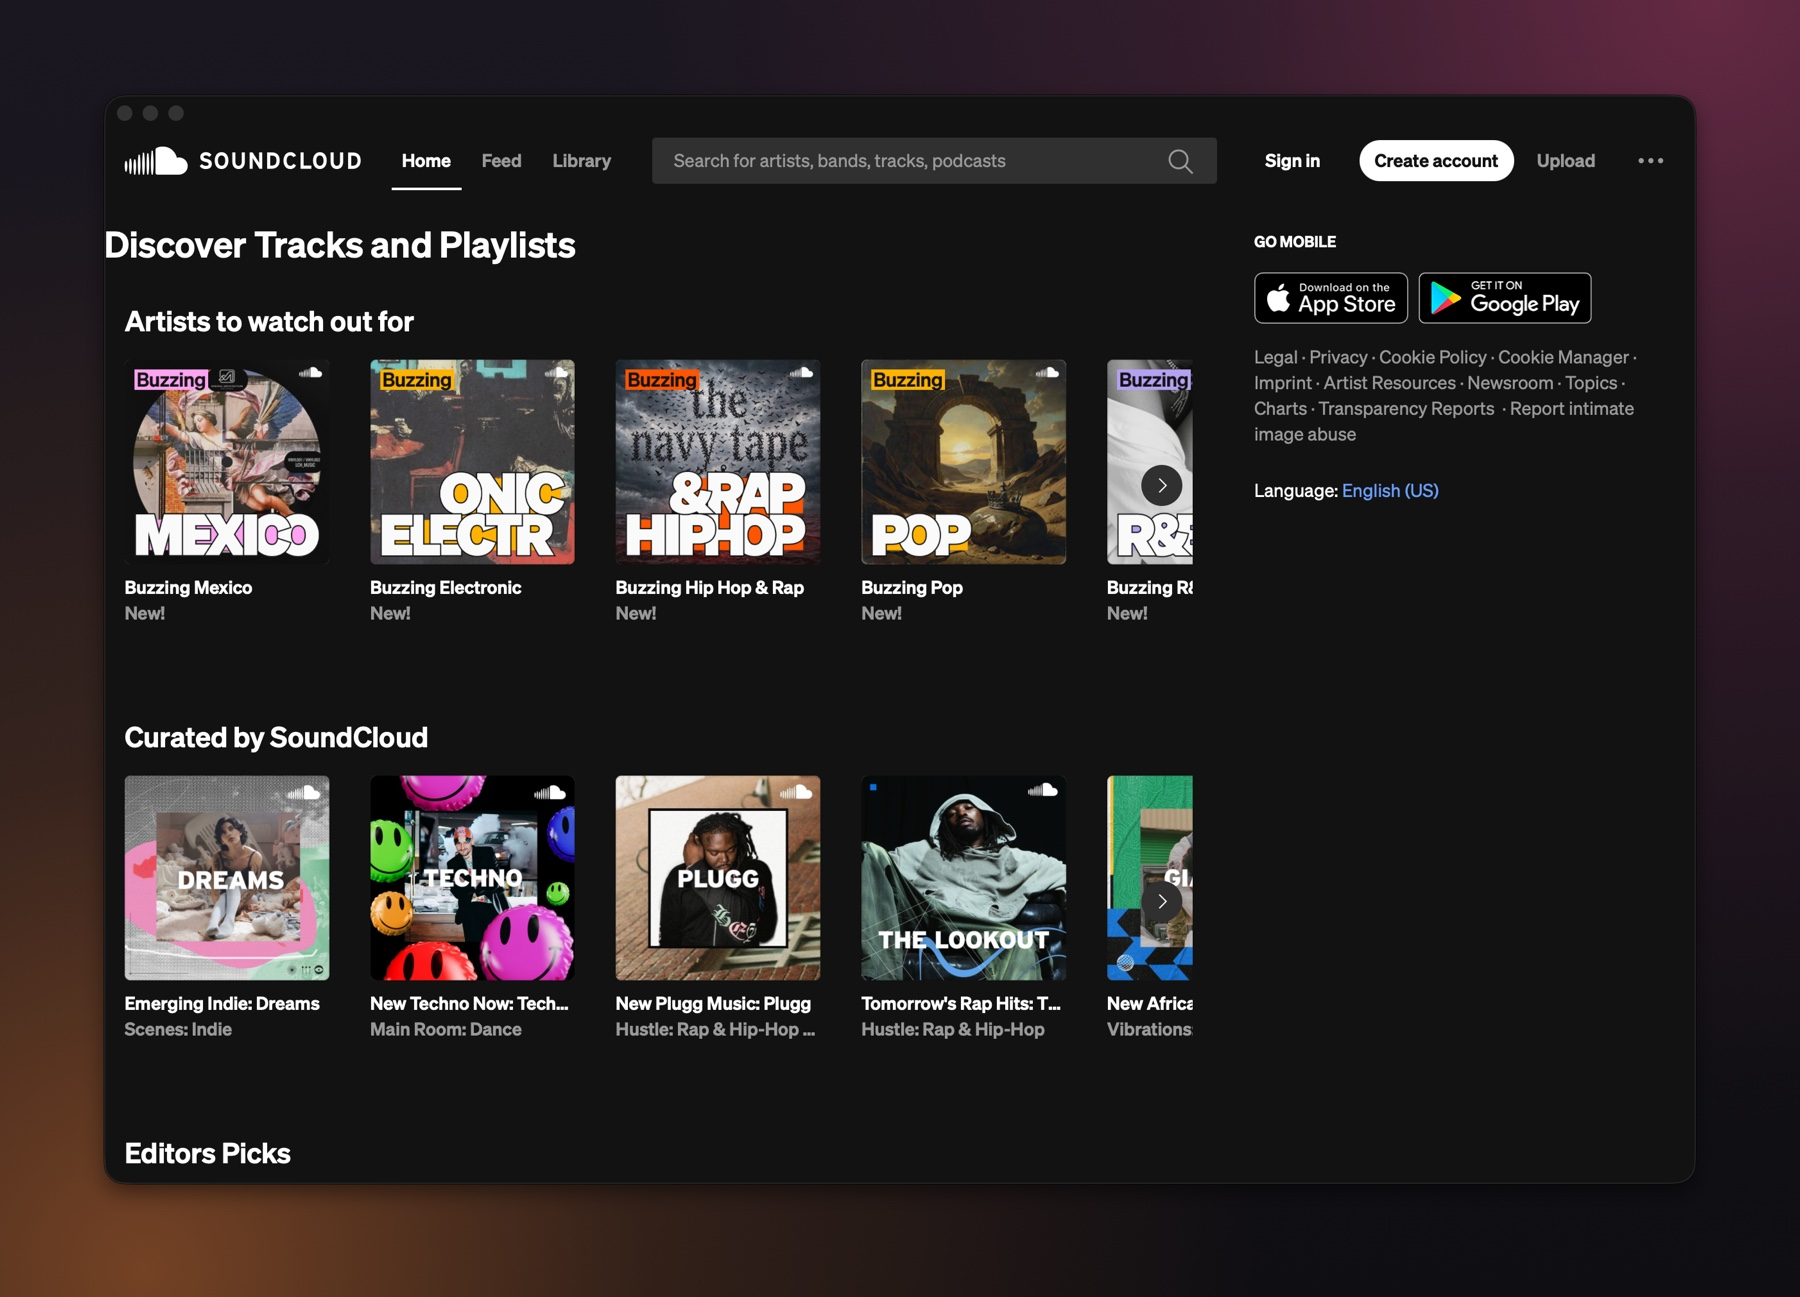
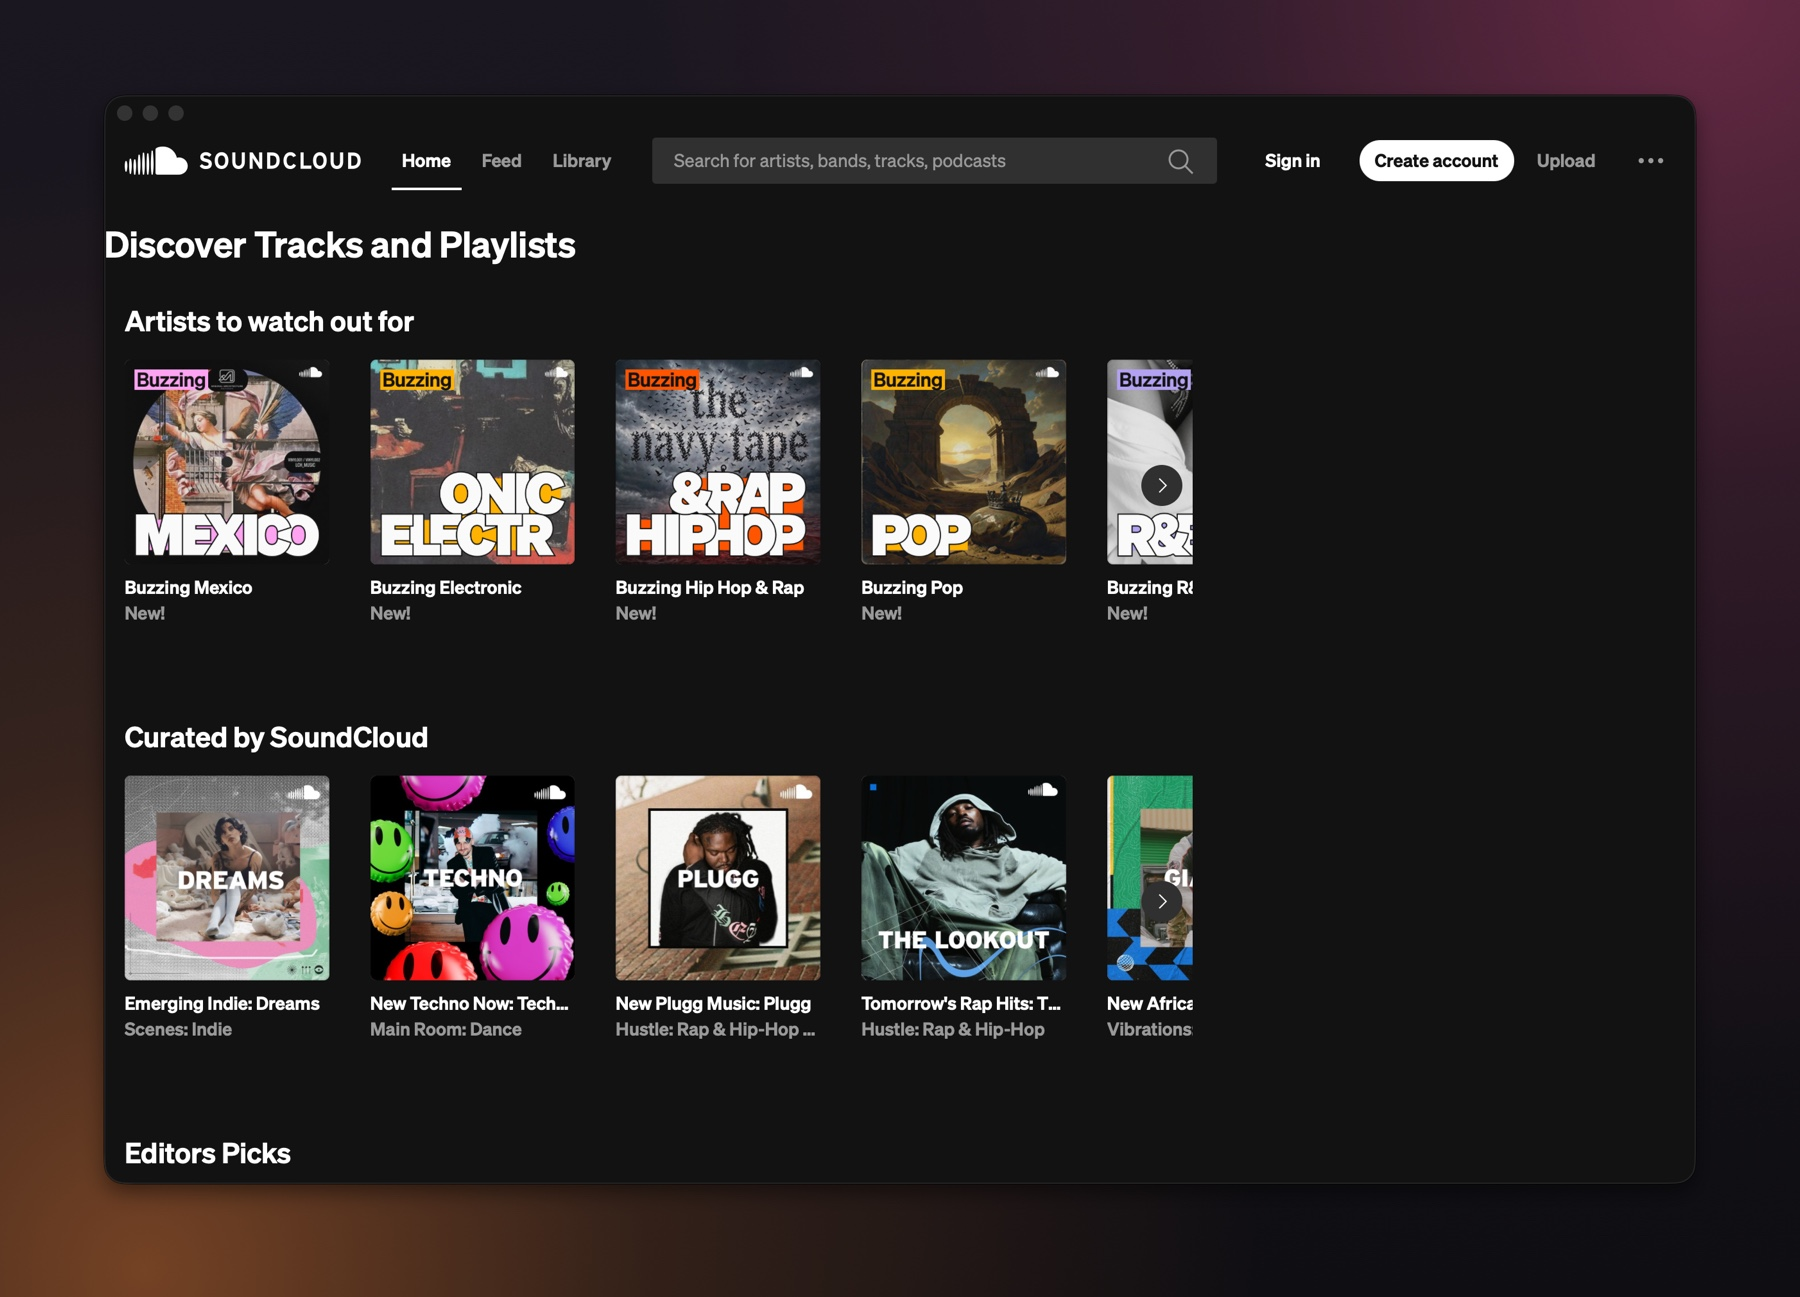
Hide the Go mobile badges and the sidebar footer
The right sidebar no longer shows the App Store and Google Play badges or
the block of legal links under them. README pictures re-shot without them.

Wisp 1.1.1

Changed region(s): [[0.6844, 0.185, 0.9022, 0.3392], [0.6844, 0.3701, 0.8089, 0.4009]]

diff --git a/Sources/Wisp/PlayerWindow.swift b/Sources/Wisp/PlayerWindow.swift
@@ -35,7 +35,7 @@ final class PlayerWindow: NSWindowController, NSWindowDelegate, WKNavigationDele
         } else {
             Log.error("bridge.js missing from the app")
         }
-        content.addUserScript(WKUserScript(source: Self.hideScrollbarsScript, injectionTime: .atDocumentStart, forMainFrameOnly: true))
+        content.addUserScript(WKUserScript(source: Self.pageStyleScript, injectionTime: .atDocumentStart, forMainFrameOnly: true))
         if Args.has("--mute") {
             // Tests: silent while something plays (volume 0, not muted, so the system still sees playback).
             content.addUserScript(WKUserScript(source: Self.muteScript, injectionTime: .atDocumentStart, forMainFrameOnly: false))
@@ -263,11 +263,13 @@ final class PlayerWindow: NSWindowController, NSWindowDelegate, WKNavigationDele
         unsafeBitCast(view.method(for: selector), to: Setter.self)(view, selector, false)
     }
 
-    /// No scroll bars: the page scrolls as before, without the bar that appears on the right.
-    static let hideScrollbarsScript = """
+    /// The app's own touches to the page: no scroll bars (the page scrolls as before, without the bar on
+    /// the right), and no "Go mobile" app-store badges or legal links in the right sidebar.
+    static let pageStyleScript = """
     (() => {
       const style = document.createElement("style");
-      style.textContent = "::-webkit-scrollbar { display: none !important; width: 0 !important; height: 0 !important; } * { scrollbar-width: none !important; }";
+      style.textContent = "::-webkit-scrollbar { display: none !important; width: 0 !important; height: 0 !important; } * { scrollbar-width: none !important; } " +
+        ".sidebarModule.mobileApps, .l-sidebar-right .l-footer { display: none !important; }";
       const add = () => (document.head || document.documentElement).appendChild(style);
       if (document.documentElement) add(); else document.addEventListener("readystatechange", add, { once: true });
     })();

diff --git a/README.md b/README.md
@@ -48,7 +48,7 @@ xattr -dr com.apple.quarantine /Applications/Wisp.app
 ## Features
 
 - The real soundcloud.com: your account, likes, playlists and uploads. Sign in with email, Google or Apple
-- SoundCloud's own dark theme
+- SoundCloud's own dark theme, without the "Go mobile" app-store badges and footer links in the sidebar
 - Media keys, AirPods and Control Center play, pause, skip and seek
 - Closing the window keeps the music playing; the Dock icon brings it back
 - Opens on the page where you left off
@@ -166,7 +166,7 @@ xattr -dr com.apple.quarantine /Applications/Wisp.app
 ### Что умеет
 
 - Настоящий soundcloud.com: твой аккаунт, лайки, плейлисты и загрузки. Вход по почте, через Google или Apple
-- Тёмная тема самого SoundCloud
+- Тёмная тема самого SoundCloud, без значков «Go mobile» и ссылок внизу боковой панели
 - Медиаклавиши, AirPods и Пункт управления ставят на паузу, переключают и перематывают
 - Если закрыть окно, музыка продолжит играть, а иконка в Dock вернёт окно
 - Открывается на той странице, где ты остановился
